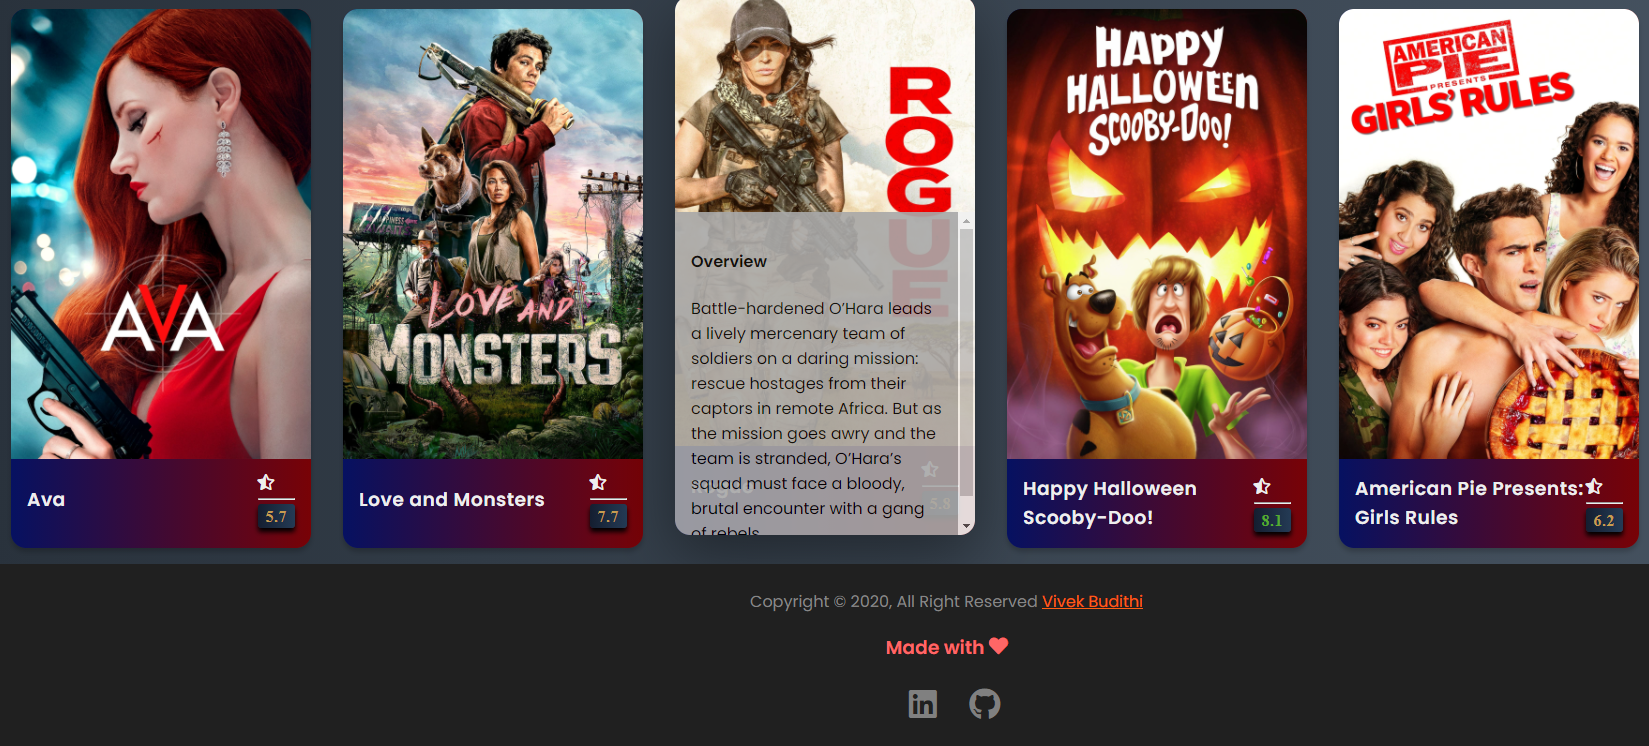
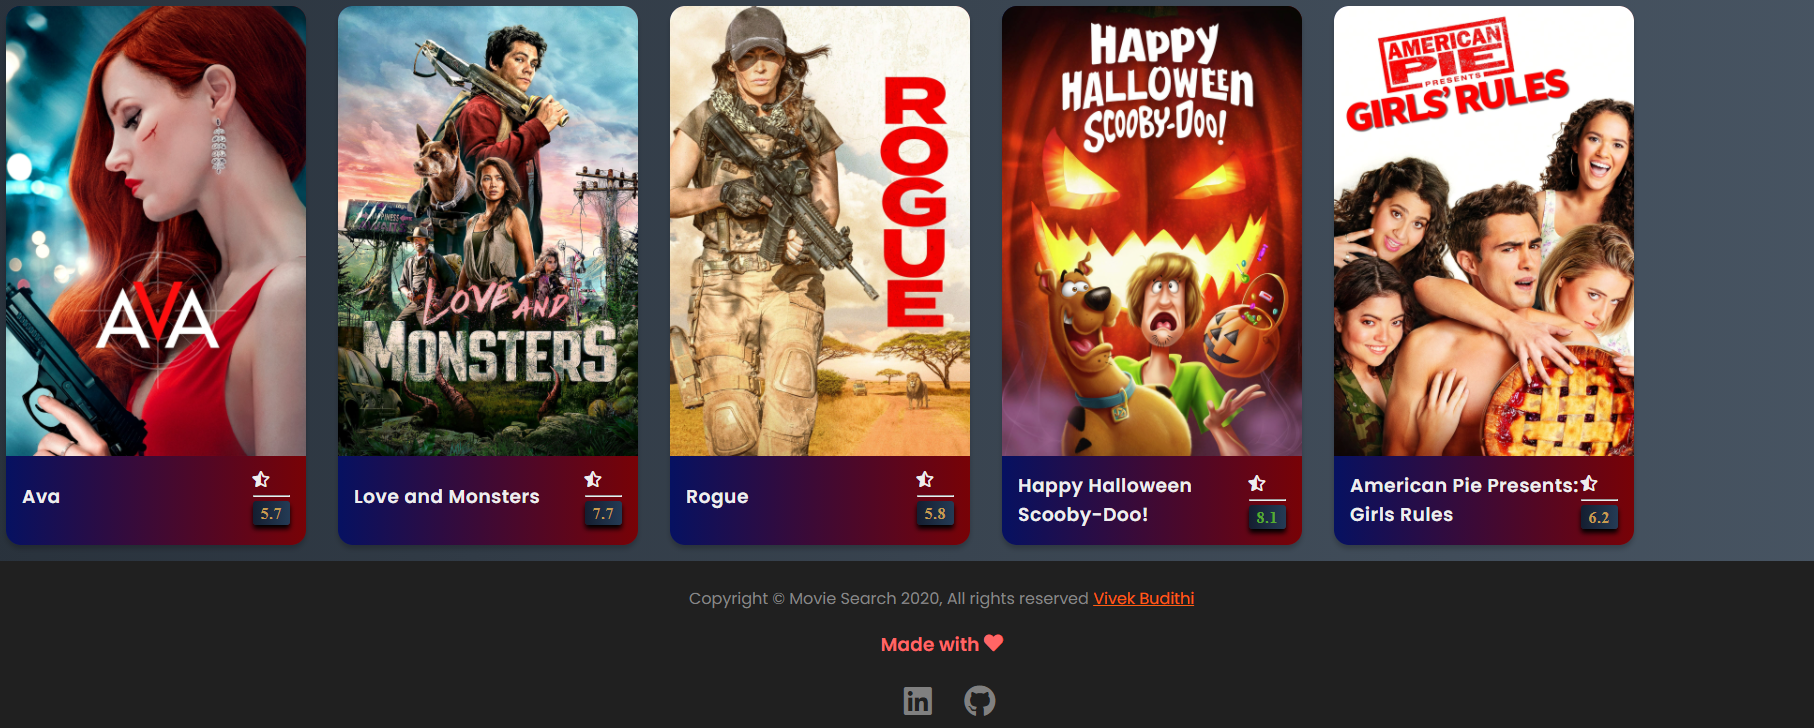
footer update

diff --git a/Index.html b/Index.html
@@ -29,7 +29,7 @@
                     <div class="row">
                         <div class="col-xl-6 col-lg-6 text-center text-lg-left">
                             <div class="copyright-text">
-                                <p>Copyright &copy; 2020, All Right Reserved <a href="https://github.com/vbudithi"> Vivek Budithi </a>
+                                <p>Copyright &copy; Movie Search 2020, All rights reserved <a href="https://github.com/vbudithi"> Vivek Budithi </a>
                                 </p>
                             </div>
                                <h3 class="love"> Made with <i class="fas fa-heart fa-bounce fa-x"></i></h3>          
